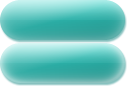
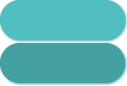
Update buttons, Embed video player

diff --git a/www/js/home.js b/www/js/home.js
@@ -145,6 +145,12 @@ var position = {},
 
 		$('.actors-block .actors').metafizzyFilter('.actors-sub-menu');
 	},
+	attachDemoHandlers = function(){
+		$('.container').addClass('demo-fix');
+	},
+	detachDemoHandlers = function(){
+		$('.container').removeClass('demo-fix');
+	},
 
 	/*define what need to be shown by the hash*/
 	viewModule = {
@@ -188,7 +194,9 @@ var position = {},
 					}, 500);
 				}
 
+				detachDemoHandlers();
 				attachHomeHandlers();
+
 				viewModule['setState']('main');
 			},
 			'actors': function(data){
@@ -207,8 +215,8 @@ var position = {},
 				}
 
 				attachActorsHandlers();
-
 				detachHomeHandlers();
+
 				viewModule['setState']('actors');
 			},
 			'demo': function(data){
@@ -226,6 +234,8 @@ var position = {},
 				}
 
 				detachHomeHandlers();
+				attachDemoHandlers();
+
 				viewModule['setState']('demo');
 			},
 			'projects': function(data){

diff --git a/www/css/account.css b/www/css/account.css
@@ -318,7 +318,7 @@
 .set-range, .report-pdf, .report-csv{
 	display: inline-block;
 	vertical-align: top;
-	height: 34px;
+	height: 33px;
 	width: 112px;
 	line-height: 32px;
 	background: url(/img/acc-sprite.png) no-repeat 0 0;
@@ -356,7 +356,7 @@
 }
 .save-btn{
 	display: inline-block;
-	background: url(/img/sprites.png) no-repeat 0 -31px;
+	background: url(/img/sprites-btn.png) no-repeat 0 -31px;
 	background-position: 15px -3465px;
 	height: 48px;
 	width: 171px;

diff --git a/www/css/home.css b/www/css/home.css
@@ -7,6 +7,9 @@
 .container{
 	padding-bottom: 0 !important;
 }
+.container.demo-fix{
+	min-height: 0 !important;
+}
 #side-menu {
 	position: fixed;
 	top: 50%;
